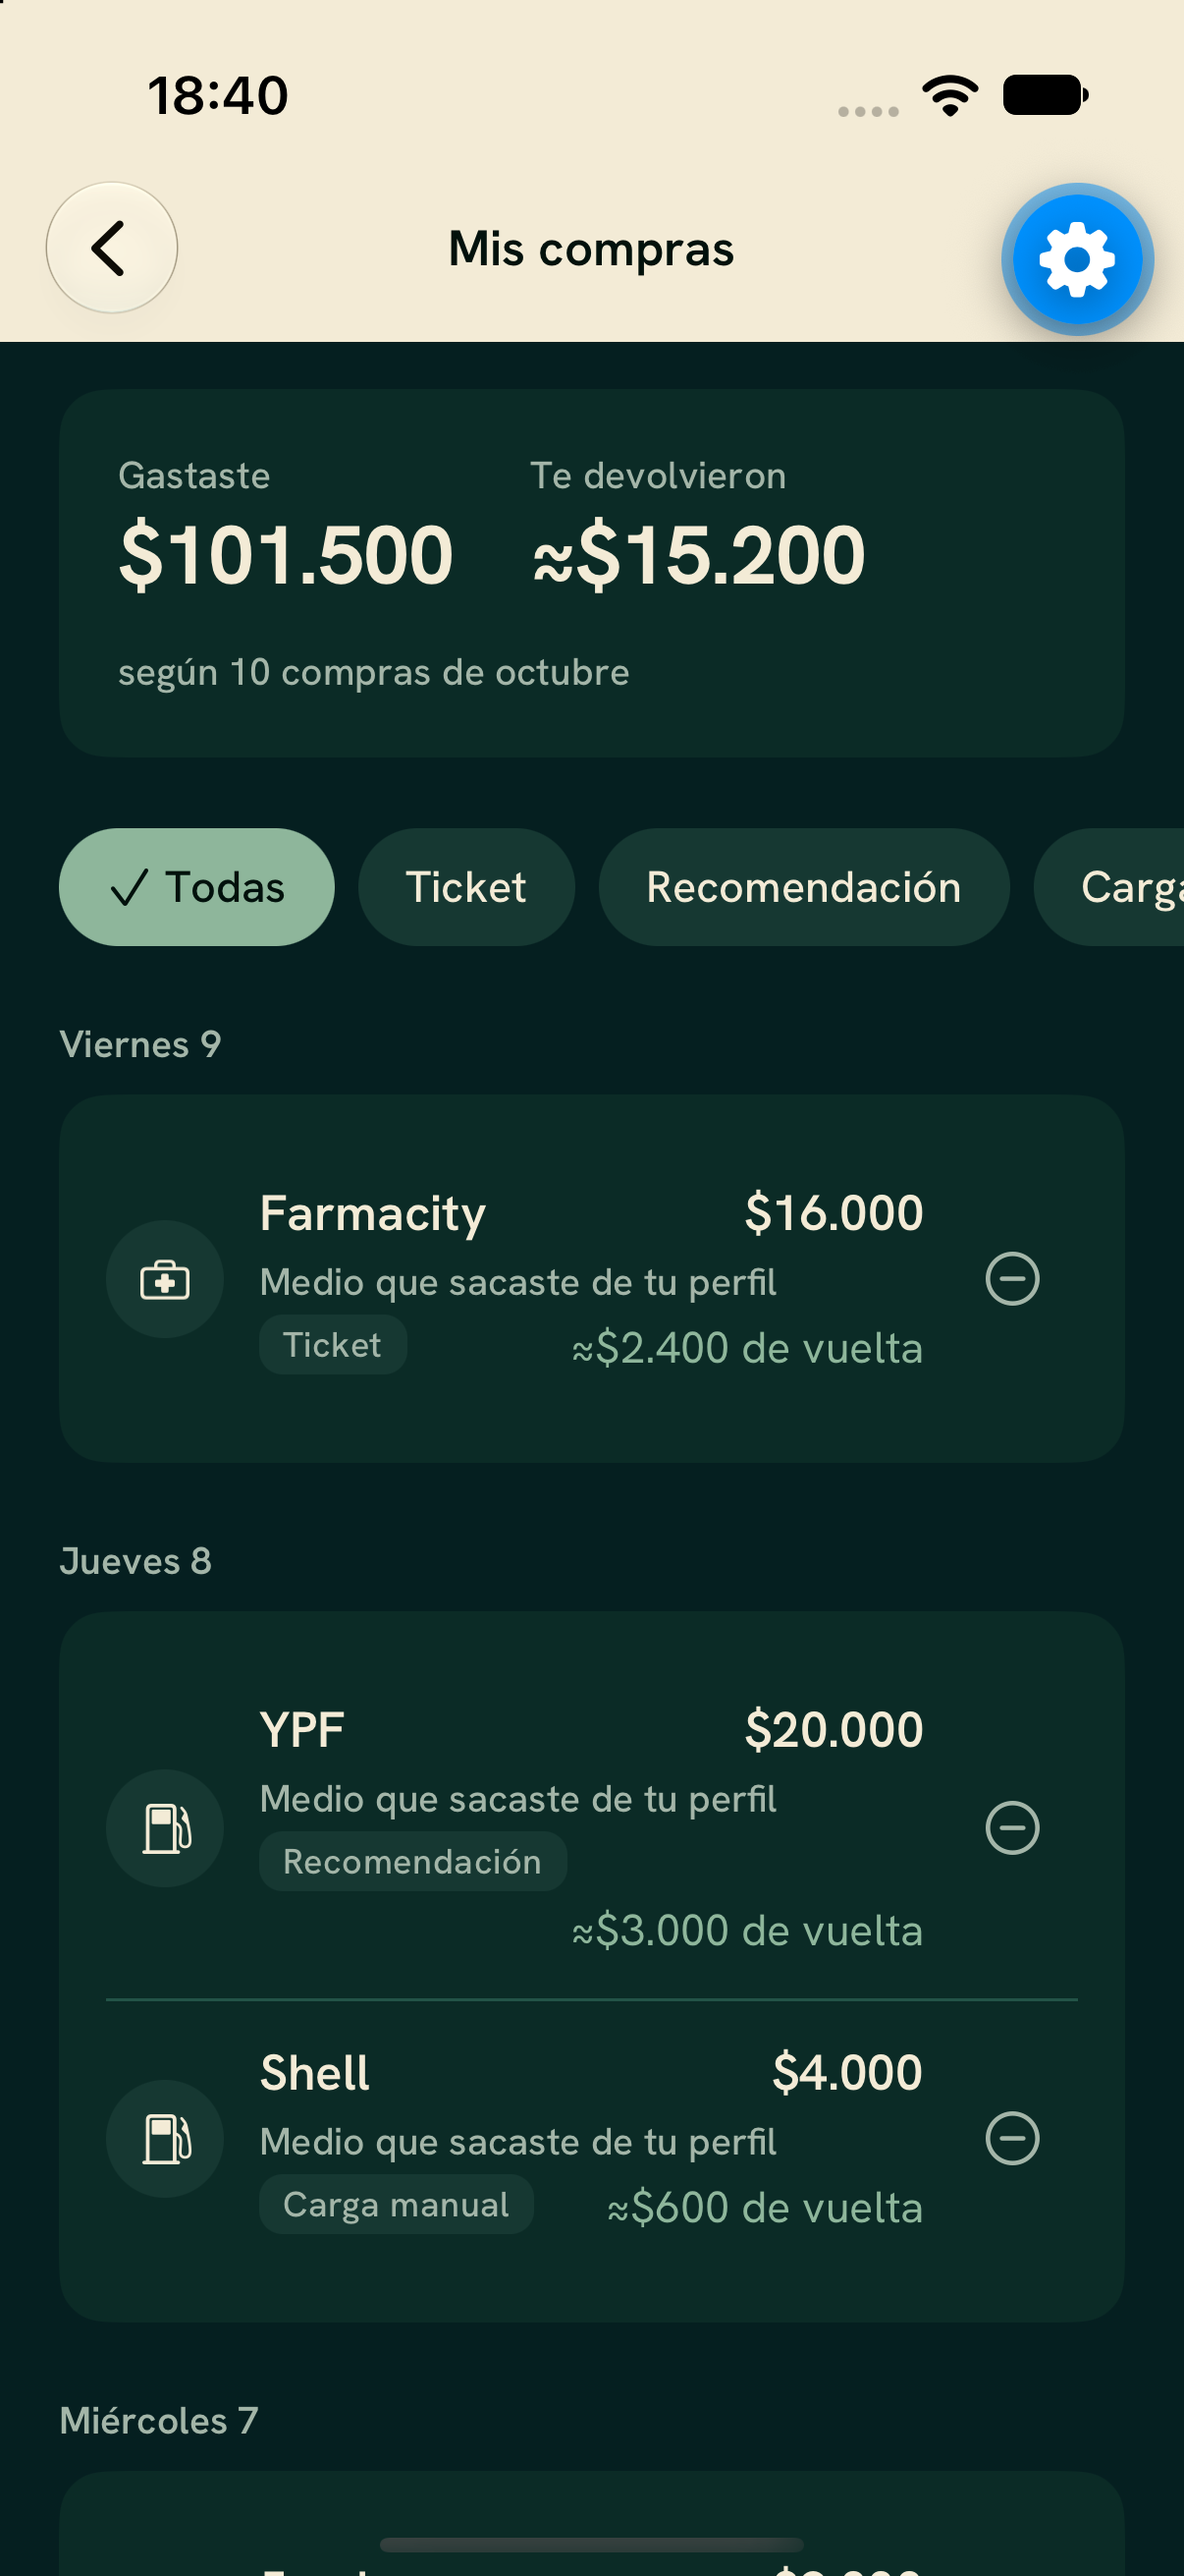
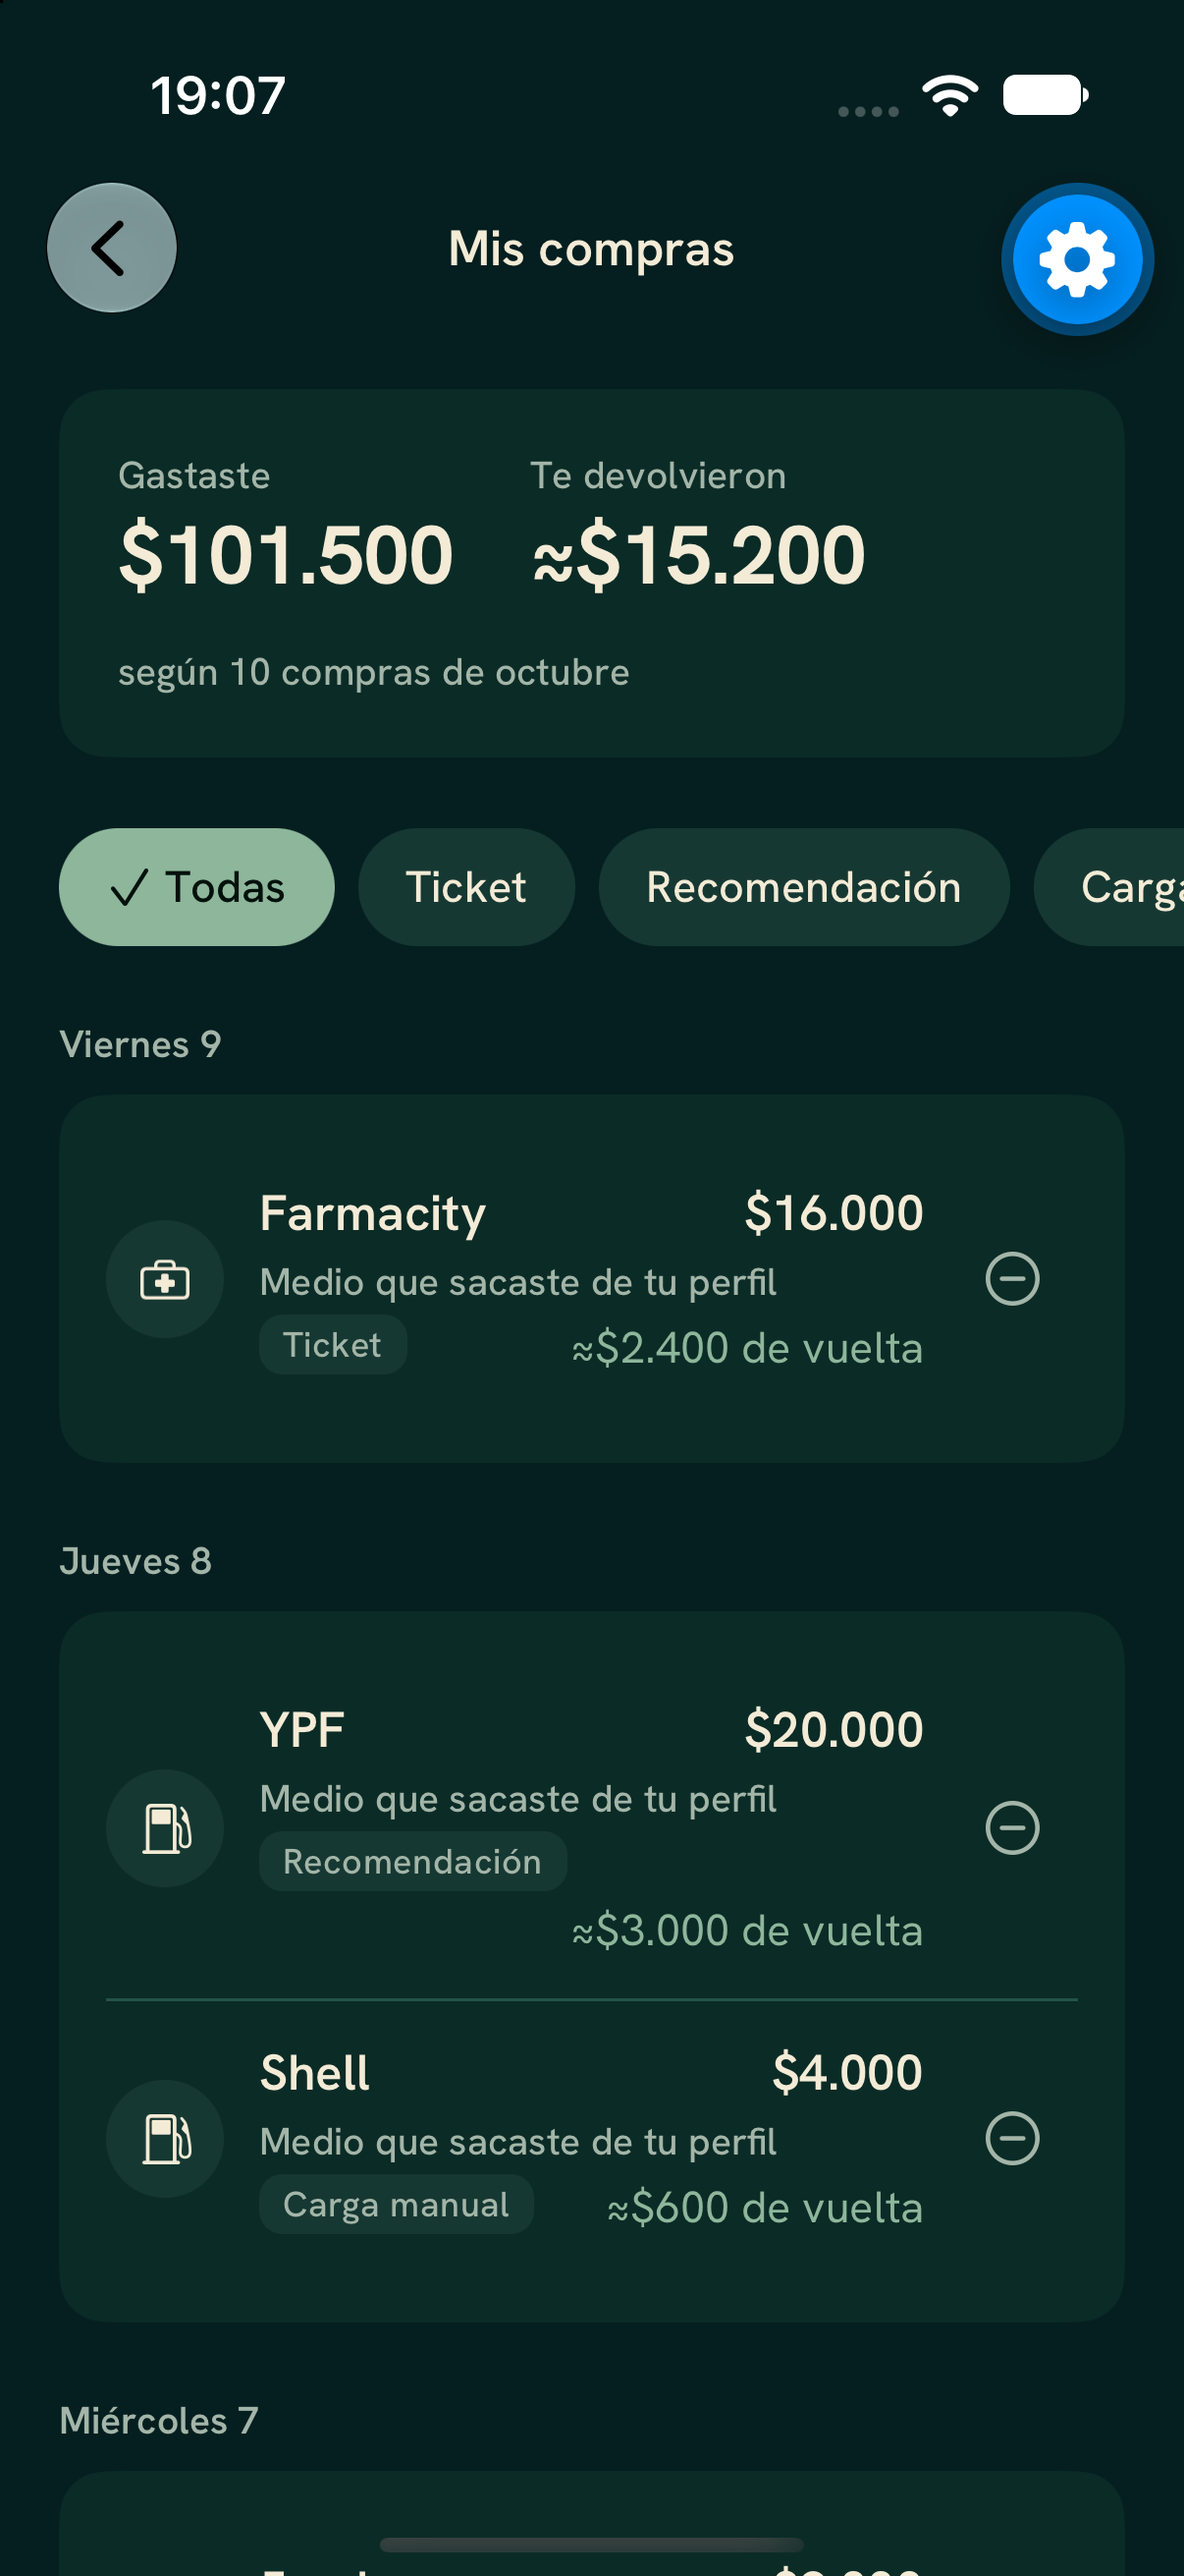
Capturas en oscuro y badge neutral en ink

Changed region(s): [[0.0, 0.0, 1.0, 0.1545]]

diff --git a/apps/mobile/src/components/badge.tsx b/apps/mobile/src/components/badge.tsx
@@ -12,7 +12,8 @@ type Props = {
 /** Badge solo cuando cambia una decisión ("Queda poco", "Tope agotado"). Mínimo 12 pt. */
 export function Badge({ label, tone = "neutral", icon }: Props) {
   const estilo = {
-    neutral: { bg: colors.surfaceStrong, fg: colors.inkSecondary },
+    // En claro, `inkSecondary` sobre `surfaceStrong` da 4,3:1 (DESIGN.md §2): ahí va `ink`.
+    neutral: { bg: colors.surfaceStrong, fg: colors.ink },
     warning: { bg: colors.warningBg, fg: colors.warning },
     error: { bg: colors.surfaceStrong, fg: colors.error },
     success: { bg: colors.successBg, fg: colors.ink },
